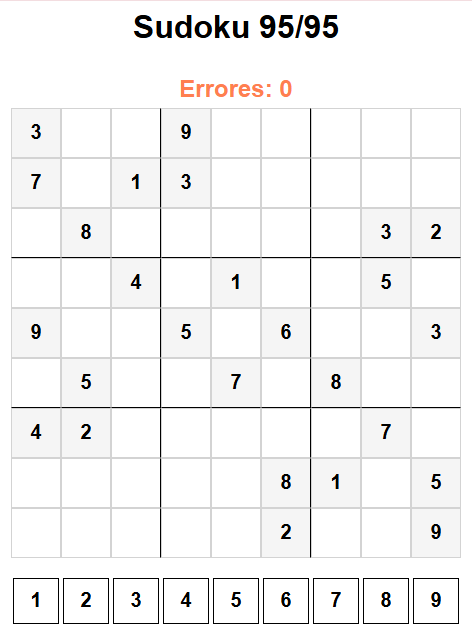
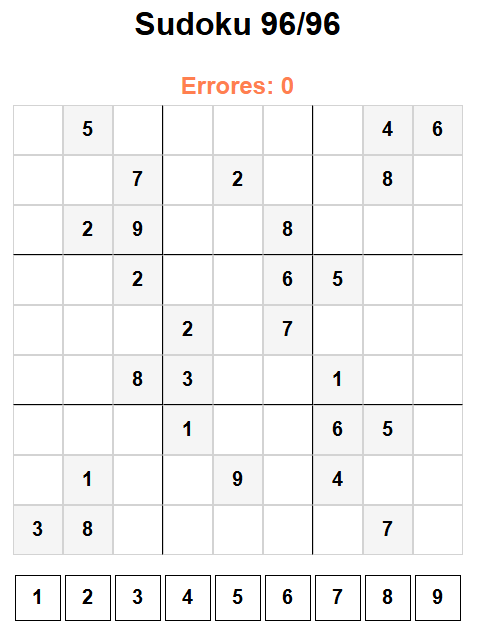
Feat: sudoku-javascript. 20261115
- 20261115

#20261115

Changed region(s): [[0.0, 0.1195, 0.9788, 0.9858], [0.2669, 0.0, 0.7119, 0.0597]]

diff --git a/board.js b/board.js
@@ -189,6 +189,8 @@ const board = [
     '731-----5', '6-294----', '-13------', '----37--4'],
   ['3--9-----', '7-13-----', '-8-----32', '--4-1--5-', '9--5-6--3',
     '-5--7-8--', '42-----7-', '-----81-5', '-----2--9'],
+  ['-5-----46', '--7-2--8-', '-29--8---', '--2--65--', '---2-7---',
+    '--83--1--', '---1--65-', '-1--9-4--', '38-----7-'],
 ];
 
 export default function getBoard (WHICH) {

diff --git a/sudoku.js b/sudoku.js
@@ -10,7 +10,7 @@ let posExample = '';
 
 let errors = 0;
 
-const WHICH = 94;
+const WHICH = 95;
 let currentBoardIndex = WHICH; // El índice del tablero que se va a resolver
 
 let board = [];
